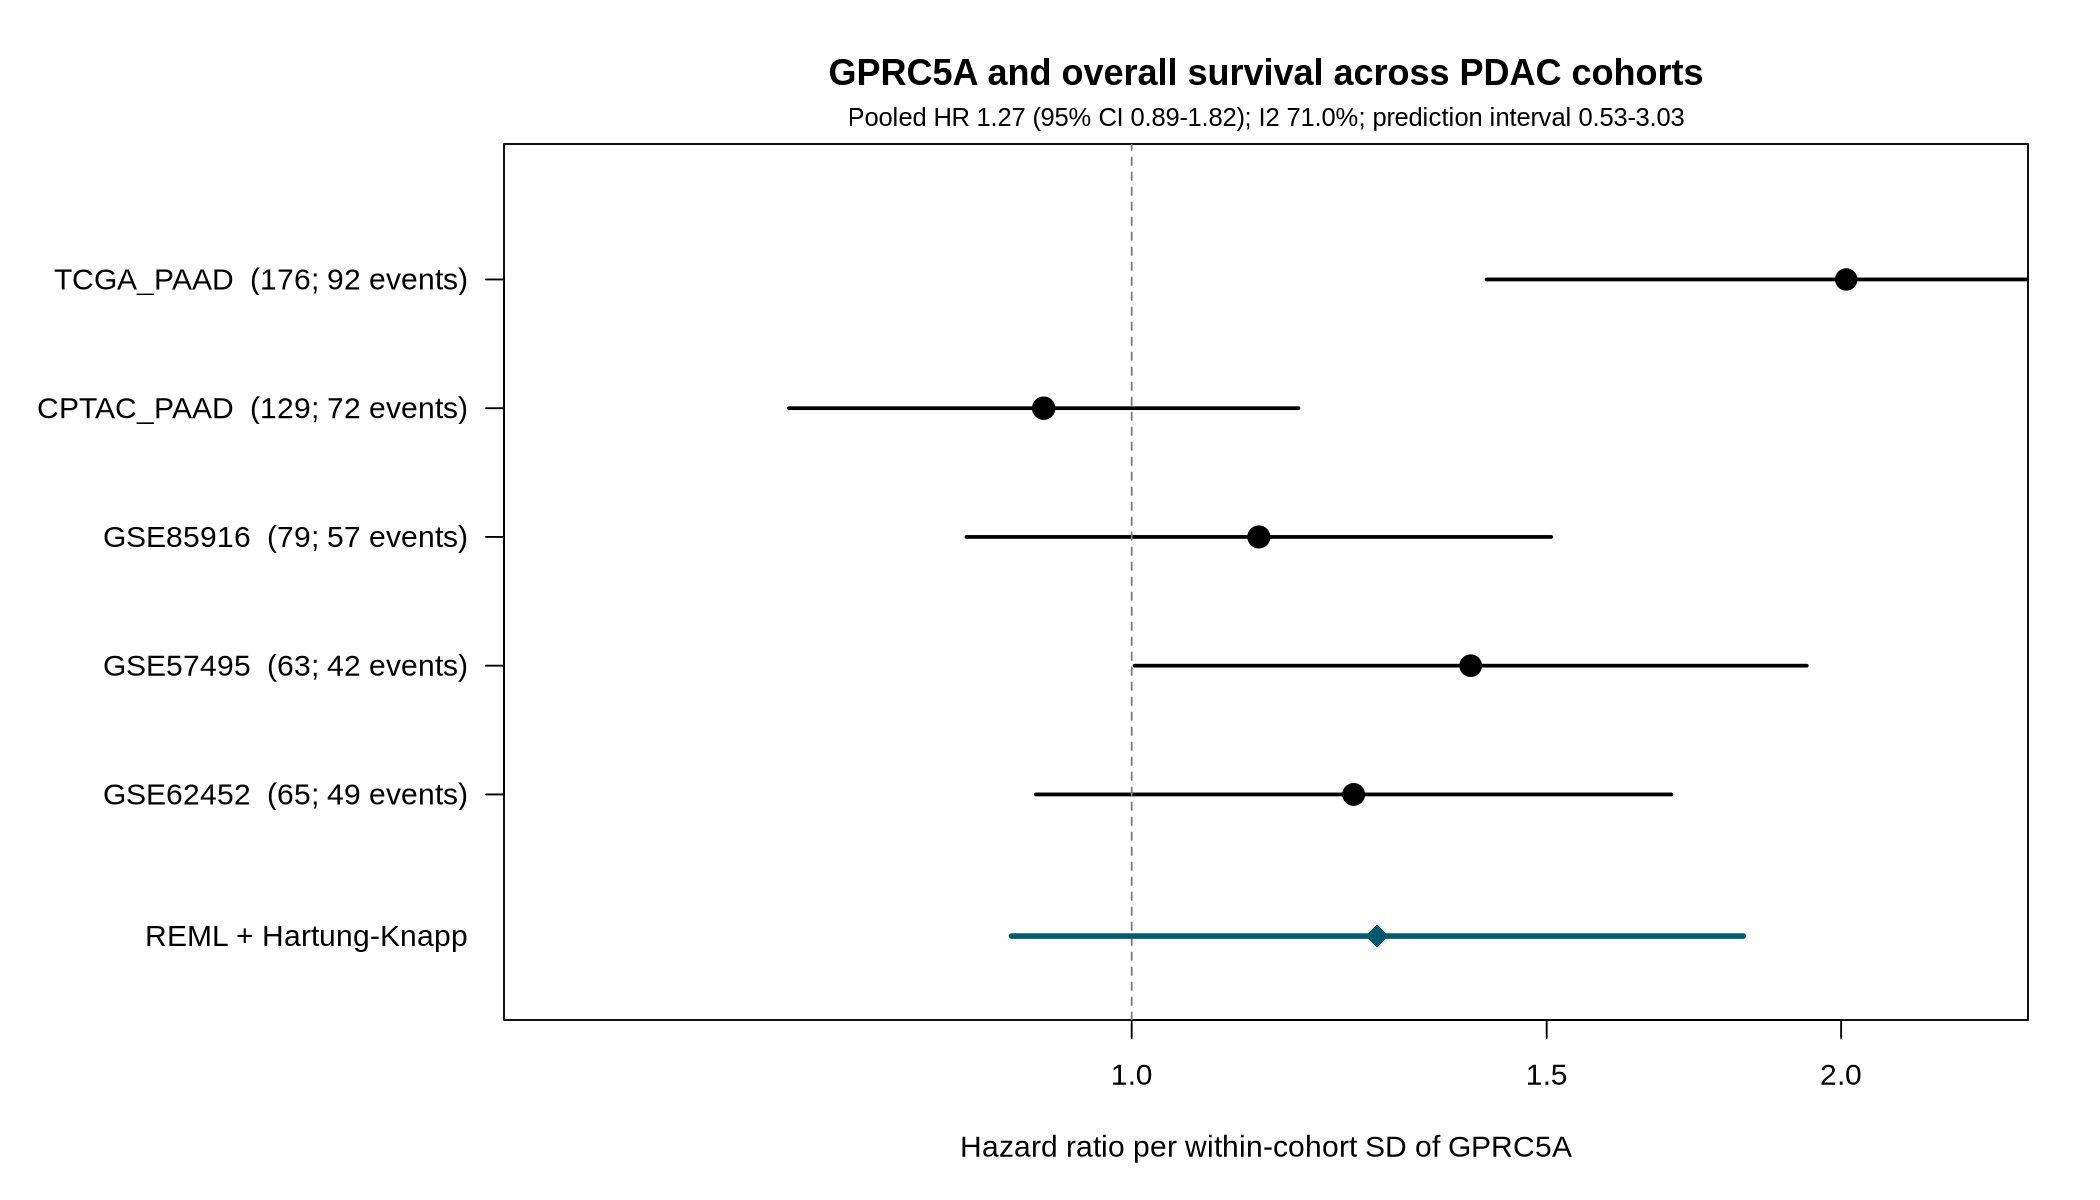
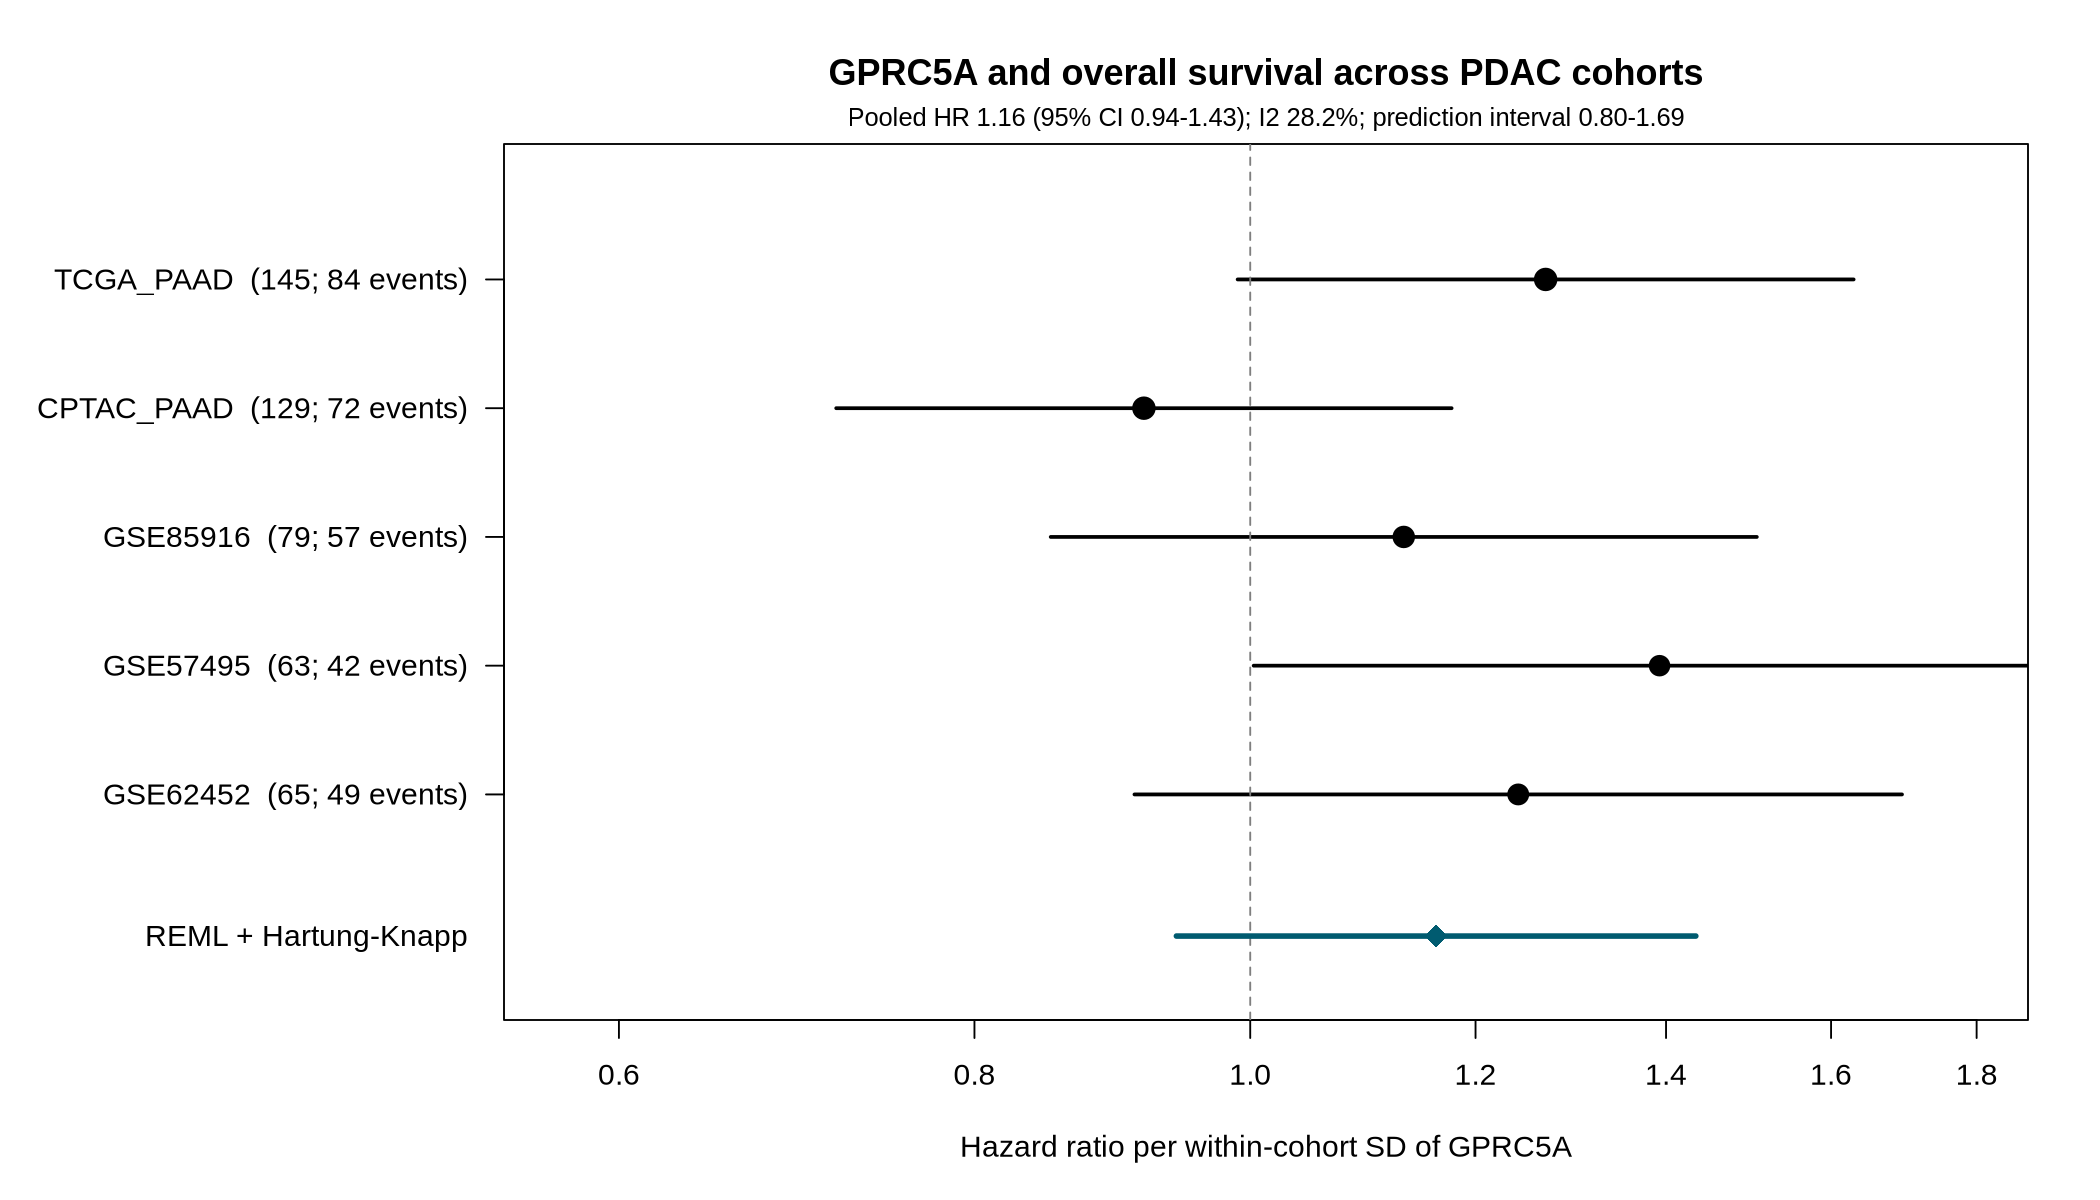
Restrict TCGA analysis to ductal histology

diff --git a/docs/V2_RESULTS.md b/docs/V2_RESULTS.md
@@ -16,7 +16,7 @@ We analysed overall survival in five independent primary-tumour cohorts spanning
 
 ### Results
 
-The survival analysis included 512 patients and 312 deaths. Cohort hazard ratios per within-cohort standard deviation ranged from 0.92 in CPTAC-PAAD to 2.01 in TCGA-PAAD. The pooled association was inconclusive (HR 1.27, 95% CI 0.89-1.82, P=0.136), with substantial heterogeneity (I²=71.0%) and a wide 95% prediction interval (0.53-3.03). Leave-one-cohort-out estimates were also inconclusive. GSE62452 showed non-proportional hazards (P=0.023). Both TCGA subtype-specific point estimates were adverse, and the adjusted expression-by-subtype interaction was not significant (P=0.254), refuting a direction-reversing subtype paradox. In contrast, GPRC5A expression was higher in tumour than adjacent tissue in 45 matched pairs (mean 2.20-fold, paired Wilcoxon P=6.03×10⁻⁸) and higher in laser-captured cancer cells than paired stroma in 19 untreated tumours (mean 5.67-fold, P=2.31×10⁻⁴). RNA and protein abundance were correlated in 135 matched CPTAC PDAC tumours (Spearman rho=0.567, P=7.40×10⁻¹³).
+The survival analysis included 481 patients and 304 deaths after restricting TCGA to explicitly ductal primary tumours. Cohort hazard ratios per within-cohort standard deviation ranged from 0.92 in CPTAC-PAAD to 1.39 in GSE57495. The pooled association was inconclusive (HR 1.16, 95% CI 0.94-1.43, P=0.118), with moderate heterogeneity (I²=28.2%) and a 95% prediction interval crossing the null (0.80-1.69). Leave-one-cohort-out estimates were also inconclusive. GSE62452 showed non-proportional hazards (P=0.023). Both TCGA subtype-specific point estimates were adverse, and the adjusted expression-by-subtype interaction was not significant (P=0.146), refuting a direction-reversing subtype paradox. In contrast, GPRC5A expression was higher in tumour than adjacent tissue in 45 matched pairs (mean 2.20-fold, paired Wilcoxon P=6.03×10⁻⁸) and higher in laser-captured cancer cells than paired stroma in 19 untreated tumours (mean 5.67-fold, P=2.31×10⁻⁴). RNA and protein abundance were correlated in 135 matched CPTAC PDAC tumours (Spearman rho=0.567, P=7.40×10⁻¹³).
 
 ### Conclusions
 
@@ -26,17 +26,17 @@ GPRC5A shows a reproducible PDAC target-expression phenotype but lacks a stable,
 
 | Cohort | N | Deaths | HR per SD | 95% CI | P | C-index | PH P |
 |---|---:|---:|---:|---:|---:|---:|---:|
-| TCGA-PAAD | 176 | 92 | 2.010 | 1.414-2.857 | 9.91×10⁻⁵ | 0.623 | 0.711 |
+| TCGA-PAAD | 145 | 84 | 1.270 | 0.990-1.629 | 0.060 | 0.583 | 0.278 |
 | CPTAC-PAAD | 129 | 72 | 0.918 | 0.715-1.177 | 0.498 | 0.516 | 0.512 |
 | GSE85916 | 79 | 57 | 1.132 | 0.851-1.507 | 0.394 | 0.524 | 0.522 |
 | GSE57495 | 63 | 42 | 1.393 | 1.003-1.934 | 0.048 | 0.560 | 0.795 |
 | GSE62452 | 65 | 49 | 1.242 | 0.911-1.695 | 0.171 | 0.516 | 0.023 |
 
-Random-effects pooled HR 1.271 (95% CI 0.889-1.817), P=0.136; tau²=0.0578; I²=71.0%; prediction interval 0.534-3.028.
+Random-effects pooled HR 1.162 (95% CI 0.942-1.434), P=0.118; tau²=0.0081; I²=28.2%; prediction interval 0.800-1.689.
 
 ## Robustness and limitations
 
-- Age/stage/grade-adjusted sensitivity models leave the key pattern unchanged: TCGA remains adverse, CPTAC remains null, and the smaller microarray estimates remain weak or imprecise. GSE85916 lacks suitable deposited clinical covariates and is unadjusted.
+- Age/stage/grade-adjusted sensitivity models leave the key pattern unchanged: all cohort estimates remain weak or imprecise, and the TCGA estimate attenuates after adjustment. GSE85916 lacks suitable deposited clinical covariates and is unadjusted.
 - Both annotated GSE85916 probes independently give similar null estimates, reducing concern that probe averaging created its result.
 - No cross-platform ComBat step is used. Such correction would entangle cohort, platform, case mix, and outcome and could create rather than solve bias.
 - The GSE62452 12-month piecewise analysis is a post-hoc proportional-hazards diagnostic, not a confirmatory subgroup finding.

diff --git a/README.md b/README.md
@@ -23,19 +23,19 @@ regression and combined using a random-effects model with Hartung-Knapp inferenc
 
 | Cohort | Platform | Patients / deaths | HR per SD (95% CI) | P |
 |---|---|---:|---:|---:|
-| TCGA-PAAD | RNA-seq | 176 / 92 | 2.01 (1.41–2.86) | 9.91×10⁻⁵ |
+| TCGA-PAAD | RNA-seq | 145 / 84 | 1.27 (0.99–1.63) | 0.060 |
 | CPTAC-PAAD | RNA-seq | 129 / 72 | 0.92 (0.72–1.18) | 0.498 |
 | GSE85916 | Affymetrix U219 | 79 / 57 | 1.13 (0.85–1.51) | 0.394 |
 | GSE57495 | Rosetta/Merck microarray | 63 / 42 | 1.39 (1.00–1.93) | 0.048 |
 | GSE62452 | Affymetrix Gene 1.0 ST | 65 / 49 | 1.24 (0.91–1.69) | 0.171 |
 
-**Pooled:** HR 1.27, 95% CI 0.89–1.82, P=0.136; I²=71.0%; 95% prediction
-interval 0.53–3.03 (512 patients, 312 deaths).
+**Pooled:** HR 1.16, 95% CI 0.94–1.43, P=0.118; I²=28.2%; 95% prediction
+interval 0.80–1.69 (481 patients, 304 deaths).
 
 ![Five-cohort survival meta-analysis](results/v2/figures/forest_survival_meta.png)
 
 The pooled association is not statistically significant, heterogeneity is
-substantial, and leave-one-cohort-out estimates remain inconclusive. This does
+moderate, and leave-one-cohort-out estimates remain inconclusive. This does
 **not** validate GPRC5A as a transportable stand-alone prognostic biomarker.
 GSE62452 also fails the proportional-hazards check (P=0.023); its reported Cox HR
 is therefore an average over time. A clearly labelled post-hoc diagnostic finds
@@ -51,9 +51,9 @@ HR 0.91 before 12 months and HR 1.83 afterward (time interaction P=0.019).
 - **RNA to protein:** in 135 matched CPTAC PDAC tumours, RNA and protein were
   moderately concordant (Spearman rho=0.567, P=7.40×10⁻¹³).
 - **No subtype reversal:** within TCGA, both reconstructed Moffitt groups had
-  adverse point estimates (basal-like HR 1.71; classical HR 2.50), while the
+  adverse point estimates (basal-like HR 1.12; classical HR 1.41), while the
   age- and stage-adjusted GPRC5A-by-subtype interaction was not significant
-  (P=0.254).
+  (P=0.146).
 
 ![Paired compartment analyses](results/v2/figures/compartment_expression.png)
 

diff --git a/CORRECTION_NOTICE.md b/CORRECTION_NOTICE.md
@@ -32,6 +32,12 @@ heterogeneity and cellular compartment expression. The scripts in `R/aim1_*`
 through `R/aim5.R` are preserved for auditability but are superseded by the
 versioned workflow under `R/v2/`.
 
+The v2 eligibility audit also found that the broad TCGA-PAAD collection
+contains non-ductal, unspecified and other pancreatic histologies. Restricting
+TCGA to explicitly annotated ductal adenocarcinoma reduced the survival set to
+145 patients and materially attenuated the TCGA association (HR 1.27, 95% CI
+0.99-1.63, P=0.060). This strict histology rule is now enforced by the v2 code.
+
 ## What remains potentially useful
 
 - GPRC5A is a biologically plausible and experimentally supported PDAC target.

diff --git a/docs/V2_PROTOCOL.md b/docs/V2_PROTOCOL.md
@@ -10,7 +10,9 @@ The study does not assume a paradox, a subtype reversal or a functional switch.
 ## Primary analysis
 
 1. Include one primary tumour per patient with positive overall-survival time
-   and an explicit censoring indicator.
+   and an explicit censoring indicator. For TCGA, require the deposited tumour
+   type to be explicitly `Pancreas Adenocarcinoma, Ductal Type`; do not treat
+   every specimen in the broader PAAD collection as PDAC.
 2. Analyse each cohort on its native platform. Do not merge expression matrices
    and do not use cross-platform ComBat.
 3. Transform GPRC5A to a within-cohort z score so hazard ratios describe a
